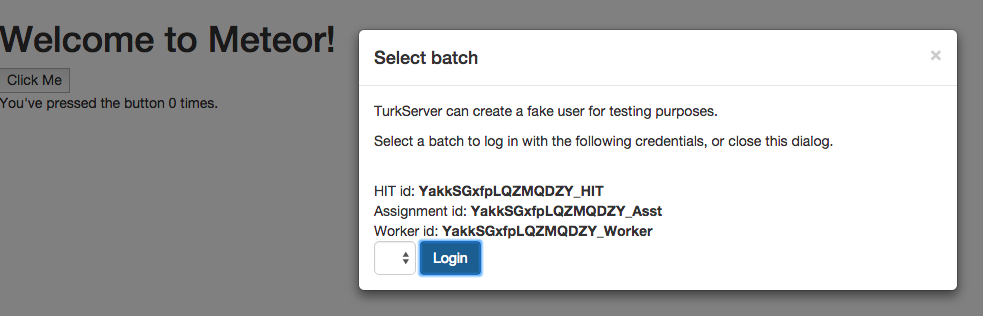
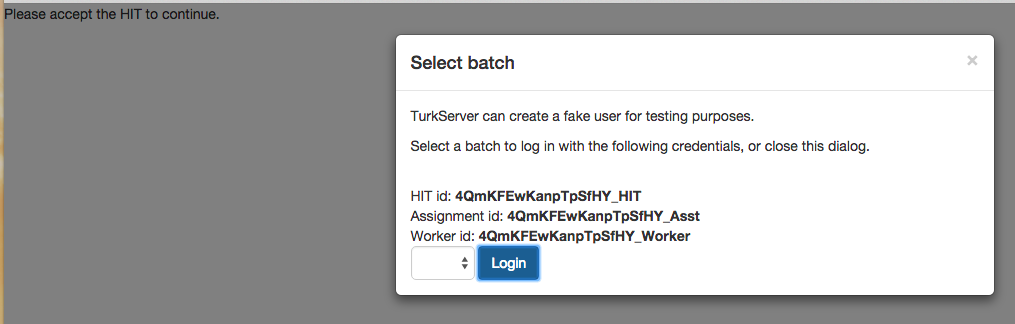
change default routing

Changed region(s): [[0.0, 0.0, 1.0, 1.0]]

diff --git a/index.md b/index.md
@@ -39,12 +39,19 @@ For the purposes of this tutorial, we will use the default Meteor "counter" app 
 
 Before moving on, don't forget to `meteor remove insecure` and `meteor remove autopublish`.
 
-For easiest integration with TurkServer, you will need to add some basic routing to your app. This how you connect different urls ("routes") to different templates. For instance, you could tell your app that `http://localhost:3000/home` shows the homepage, and `http://localhost:3000/faq` shows an FAQ page.
+For easiest integration with TurkServer, you will need to add some basic routing to your app. This how you connect different urls ("routes") to different templates. We will start with two routes:
+
+1. The default path `/`, which will get shown when a worker is previewing your HIT.
+2. A second path `/experiment`, which will get shown after the worker accepts the HIT.
 
 To do this, first add the Meteor package iron-router via `meteor add iron:router`. Then edit the block of HTML at the top of demo.html to look like this:
 
 ```html
 <template name="home">
+    Please accept the HIT to continue.
+</template>
+
+<template name="experiment">
   <head>
     <title>demo</title>
   </head>
@@ -57,7 +64,7 @@ To do this, first add the Meteor package iron-router via `meteor add iron:router
 </template>
 ```
 
-In other words, simply wrap the HTML in a template called "home."
+We have done two things here: we wrapped the existing HTML in a template called "experiment", and we added another template called "home." We want to show the "home" template when a worker is previewing the HIT, and the "experiment" template after they have accepted.
 
 Next create a new file called routes.js and add the following to it:
 
@@ -65,9 +72,13 @@ Next create a new file called routes.js and add the following to it:
 Router.route('/', function() {
   this.render('home');
 });
+
+Router.route('/experiment', function() {
+  this.render('experiment');
+});
 ```
 
-For a more detailed explanation of this code and  a better understanding how routing works, see the [iron-router docs](http://iron-meteor.github.io/iron-router/). Essentially, we have told the app that when we navigate to the route `'/'` (i.e. `https://localhost:3000/`), we should see the "home" template. That was happening anyway, so we haven't actually changed anything about the behavior of our app -- but now we are better prepared to integrate with TurkServer.
+For a more detailed explanation of this code and  a better understanding how routing works, see the [iron-router docs](http://iron-meteor.github.io/iron-router/). Essentially, we have told the app that when we navigate to the default route `'/'`, we should see the "home" template, and when we navigate to the route `'/experiment'`, we should see the "experiment" template.
 
 Now we are ready to add the TurkServer package:
 
@@ -93,7 +104,7 @@ Next create a settings.json file, which needs to contain a password for the Turk
 
 For now, fill in "adminPassword", "accessKeyId", and "secretAccessKey". We'll come back to the other parts later.
 
-Finally, run your app with `meteor --settings settings.json`. When you navigate to `http://localhost:3000/`, you should still see the "Click me" page, but now you should also see a popup that prompts you to select a "batch:"
+Finally, run your app with `meteor --settings settings.json`. When you navigate to `http://localhost:3000/` (the default route `'/'`), you should see your "home" template (which prompts you to accept the HIT), and now you should also see a popup that prompts you to select a "batch:"
 
 ![screenshot](img/popup.png)
 
@@ -121,7 +132,7 @@ The **SimpleAssigner** is similar, except that when a user goes into the lobby f
 
 To make this flow work properly, we need to glue each of the two possible states (experiment and exit survey) to a different template in our application. (Note: We don't need to worry about making a template for the lobby, because the SimpleAssigner never lets the user stay there for long -- he is always immediately redirected to the experiment or exit survey. If you write an assigner that makes users wait in the lobby, you will need to design a template for it.)
 
-Let's assume that when a user is in the experiment, we want him to see the "Click Me" page. And when the user is in the exit survey, we want him to see a submit button that will allow him to submit the HIT. We already have the "Click Me" page, so let's design the exit survey.
+Let's assume that when a user is in the experiment, we want him to see the "Click Me" page. And when the user is in the exit survey, we want him to see a submit button that will allow him to submit the HIT. We already have the "Click Me" page (in the "experiment" template), so let's design the exit survey.
 
 First, we'll create the template. Add a block at the end of demo.html that looks like this:
 
@@ -167,24 +178,20 @@ Template.survey.events({
 });
 ```
 
-Now we need to connect this template to a route. Change routes.js to:
+Add the following block to routes.js:
 
 ```javascript
-Router.route('/', function() {
-  this.render('home');
-});
-
 Router.route('/survey', function() {
   this.render('survey');
 });
 ```
 
-Finally, we need to tell our app that when a user is in the experiment state, we should load the `'/'` route (which is connected to the "home" template), and when a user is in the exit survey state, we should load the `'/survey'` route (which is connected to the "survey" template). Add the following inside the `Meteor.isClient` block at the top of demo.js:
+Finally, we need to tell our app that when a user is in the experiment state, we should load the `'/experiment'` route (which is connected to the "experiment" template), and when a user is in the exit survey state, we should load the `'/survey'` route (which is connected to the "survey" template). Add the following inside the `Meteor.isClient` block at the top of demo.js:
 
 ```javascript
 Tracker.autorun(function() {
   if (TurkServer.inExperiment()) {
-    Router.go('/');
+    Router.go('/experiment');
   } else if (TurkServer.inExitSurvey()) {
     Router.go('/survey');
   }
@@ -449,10 +456,6 @@ To see if this worked properly, go through the HIT yet again. Be sure to click t
 
 So we've set the bonus value, but we haven't yet approved the worker's assignment or paid the bonus. We can't test out this functionality while running as a fake user, so we'll have to move to Mechanical Turk's sandbox environment.
 
-[[TO-DO AT SOME POINT BEFORE NEXT SECTION]]
-
-- Change the  `/` route -- this is what the worker sees *before* accepting the HIT. Otherwise they will be able to click "Click Me" before the experiment has been set up and this will throw errors.
-
 ## Deployment
 
 First we have to deploy our app. There are two good options: [Modulus](https://modulus.io/) (very beginner-friendly) and [DigitalOcean](https://modulus.io/) (less beginner-friendly, but much more flexible). A fantastic tutorial that covers both options is given [here](http://meteortips.com/deployment-tutorial/). We'll only be covering Modulus in this tutorial. If you choose to deploy on DigialOcean (or any other cloud server) instead, simply skip ahead to the next section. (But first be sure to install an SSL certificate on your server, because otherwise Mechanical Turk will block the external HIT.)
@@ -493,4 +496,3 @@ Don't select any qualifications right now, because we're just testing on the san
 When you're ready, click "Create". On the following screen, you should see a button that says "Register." Click that to register your new HIT type with Mechanical Turk.
 
 At this point we're all set to create our HIT. Click on "HITs" in the navigation pane. In the "Create New HIT" form, select the HIT type we just created from the dropdown menu. Leave "Max Assignments" and "Lifetime in Seconds" at their default values, which ensure that only one worker can accept this HIT, and that the HIT will be available for one day until it expires. When you're done, click "Create."
-
